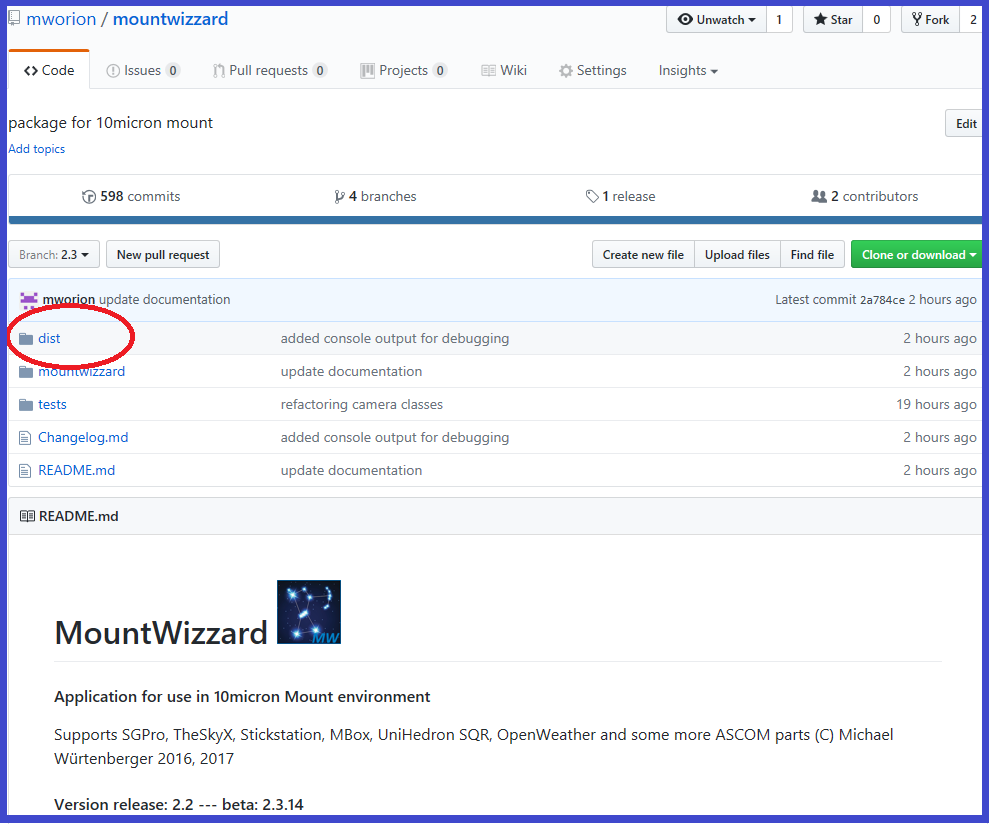
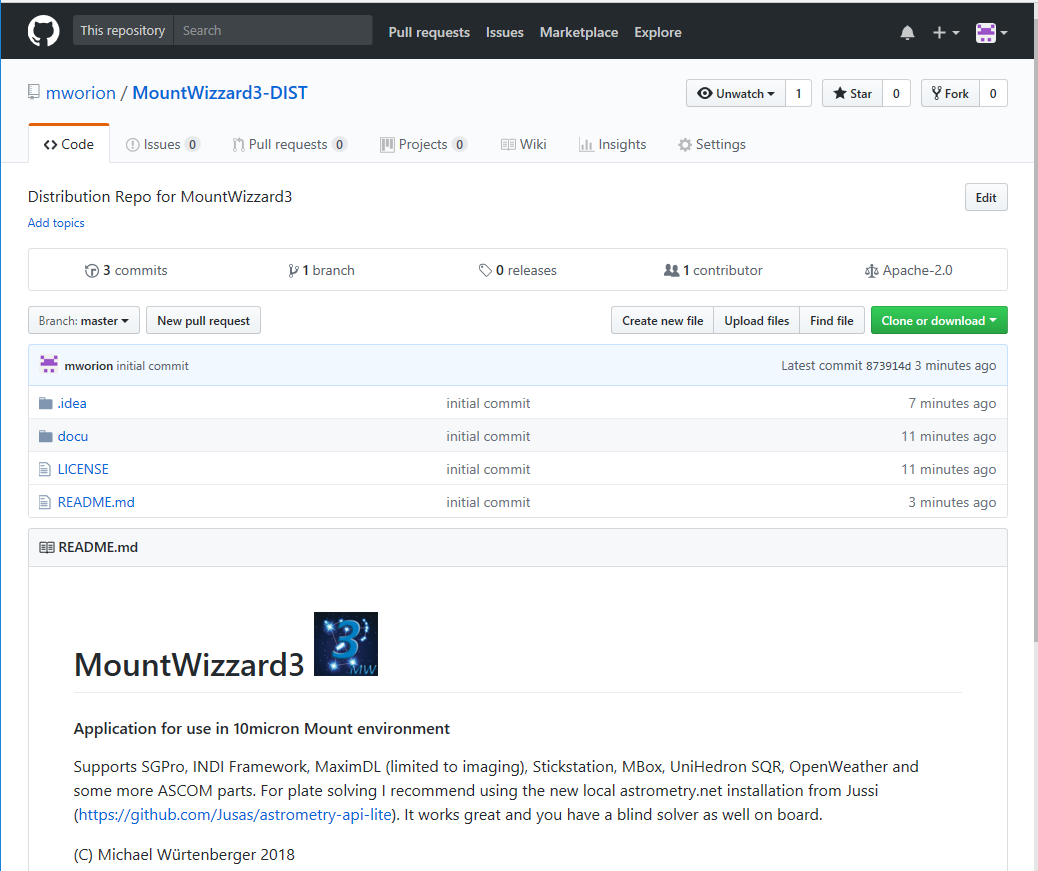
initial commit

diff --git a/docu/installation.md b/docu/installation.md
@@ -7,9 +7,9 @@ doing the software as a hobby and you can't expect the support you will have on 
 
 ### Where to find the Application ?
 
-The application as well as this documentation and the software code itself is hosted on github:
+The application as well as this documentation and the distribution itself is hosted on github:
 
-https://github.com/mworion/mountwizzard3.
+https://github.com/mworion/mountwizzard3-dist.
 
 You will find the readme in the main page, which also directs to the extended documentation. The
 interesting part for downloading the application is the subdirectory /dist in github. The page is
@@ -38,9 +38,11 @@ So the best way is to download both versions (pure and console) to you computer.
 Before I put the application to github they are OK, but you never know.
 
 ### Compatibility
-Actually the application package ist tested and verified to be able to run in win7 and win10 operating
-systems. Both 32bit and 64bit are supported. The bundle itself contains only 32bit runtime libraries.
-Older versions like vista have not been tested successful.
+Actually the application package (.EXE) is tested and verified to be able to run in win7 and win10
+operating systems. Both 32bit and 64bit are supported. The bundle itself contains only 32bit runtime
+libraries. Older versions like vista have not been tested successful.
+The package file (.tar.gz) is tested in ubuntu 16.04 LTS and Mac OSx high sierra. On these systems
+python 3.6.5 has to be installed manually.
 
 ### Preparation on your computer
 #### ASCOM framework
@@ -85,21 +87,26 @@ They are located under the <installation directory>/dist/worker in the file conf
 at least double the solving speed.
 
 #### Preparing local working directory
-If you would like to use MountWizzard on you astro imaging computer, it makes a lot of sense to create a working directory of your choice and
-location on your computer. Please keep in mind, that you need write permissions in that directory, otherwise MounWizzard won't run and work.
+If you would like to use MountWizzard on you astro imaging computer, it makes a lot of sense to create a
+working directory of your choice and location on your computer. Please keep in mind, that you need write
+permissions in that directory, otherwise MounWizzard won't run and work.
 So for simple demo, I put it on the desktop:
 
 <img src="pics/workdir.png"/>
 
-Please put the downloaded application and start it. MountWizzard will create in that directory some subdirs:
+Please put the downloaded application and start it. MountWizzard will create in that directory some
+subdirs:
 
 <pre> /config </pre>
 
-where all the configuration like the config from MountWizzard, but also your horizon file and your model points file (if you have one from
-ModelMaker for example) and some downloaded mount computer updating data (comets, asteroids, UTC files etc.)
+where all the configuration like the config from MountWizzard, also your horizon file and your model
+points file (if you have one from ModelMaker for example) and some downloaded mount computer updating
+data (comets, asteroids, UTC files etc.). In addition you will find your stored profiles as well in this
+directory.
 
 <pre> /analysedata </pre>
-where all files are stored, which were created with every model building run. And finally
+where all files are stored, which were created with every model building run. This includes the data
+for model making out of data. And finally
 
 <pre> /images </pre>
 
